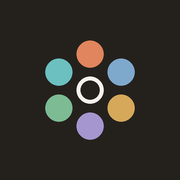
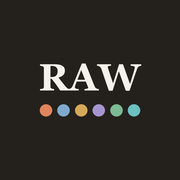
이름을 RAW(읽고, 묻고, 쓰다)로, 오늘 화면을 R·A·W 흐름으로, 새 아이콘

Changed region(s): [[0.2222, 0.2222, 0.7778, 0.7778]]

diff --git a/index.html b/index.html
@@ -3,7 +3,7 @@
 <head>
 <meta charset="utf-8">
 <meta name="viewport" content="width=device-width, initial-scale=1, viewport-fit=cover">
-<title>여섯 시선</title>
+<title>RAW · 읽고, 묻고, 쓰다</title>
 <link rel="preconnect" href="https://fonts.googleapis.com">
 <link rel="preconnect" href="https://fonts.gstatic.com" crossorigin>
 <link rel="stylesheet" href="https://fonts.googleapis.com/css2?family=Gothic+A1:wght@400;600;800&family=Noto+Serif+KR:wght@400;600;700&display=swap">
@@ -43,8 +43,22 @@ button{font:inherit;color:inherit;cursor:pointer;border:none;background:none;pad
 input,select,textarea{font:inherit;color:var(--ink)}
 .app{max-width:560px;margin:0 auto;padding:16px 16px calc(96px + env(safe-area-inset-bottom,0px))}
 .top{display:flex;align-items:baseline;justify-content:space-between;margin:6px 0 18px}
-.brand{font-family:var(--serif);font-weight:700;font-size:20px;letter-spacing:-.01em}
-.brand small{font-family:var(--sans);font-weight:400;font-size:12px;color:var(--muted);margin-left:6px}
+.brand{display:flex;align-items:baseline;gap:10px}
+.brand .logo{font-family:var(--serif);font-weight:700;font-size:24px;letter-spacing:.14em;line-height:1}
+.brand small{font-family:var(--serif);font-weight:400;font-size:13px;color:var(--muted)}
+.flow{display:flex;align-items:center;gap:6px;margin:16px 0 0}
+.flow .arrow{font-style:normal;color:var(--faint);font-size:12px}
+.flow .step{flex:1;display:flex;align-items:center;gap:8px;border:1px solid var(--line);border-radius:12px;padding:8px 10px;background:var(--surface);text-align:left}
+.flow .step b{width:24px;height:24px;border-radius:50%;display:inline-flex;align-items:center;justify-content:center;font-family:var(--serif);font-size:13px;border:1.5px solid var(--faint);color:var(--muted);flex-shrink:0}
+.flow .step span{font-size:13px;color:var(--muted);font-weight:600}
+.flow .step.done{border-color:var(--ink)}
+.flow .step.done b{background:var(--ink);border-color:var(--ink);color:var(--bg)}
+.flow .step.done span{color:var(--ink)}
+.stage{display:flex;align-items:baseline;gap:8px}
+.stage b{font-family:var(--serif);font-weight:700;letter-spacing:.16em;font-size:12.5px;color:var(--ink)}
+.stage span{font-weight:600}
+.askcard{margin-top:8px}
+.askcard .chips:last-child{margin-bottom:0}
 .sec-h{display:flex;justify-content:space-between;align-items:center;margin:26px 0 10px}
 .sec-h h2,.h2{font-size:13px;font-weight:600;color:var(--muted);margin:0;letter-spacing:.02em}
 .linkbtn{font-size:12.5px;color:var(--muted);text-decoration:underline;text-underline-offset:2px}
@@ -95,8 +109,8 @@ input,select,textarea{font:inherit;color:var(--ink)}
 .src{font-size:12px;color:var(--faint)}
 .src b{font-weight:600;color:var(--muted)}
 
-.mine{margin-top:26px;background:var(--surface);border:1.5px dashed var(--line);border-radius:var(--r);padding:16px}
-.mine .q{font-family:var(--serif);font-size:17px;margin:4px 0 14px}
+.mine{background:var(--surface);border:1.5px dashed var(--line);border-radius:var(--r);padding:16px}
+.mine .q{font-family:var(--serif);font-size:17px;margin:0 0 12px}
 .label{font-size:12px;color:var(--muted);margin:0 0 6px}
 .chips{display:flex;flex-wrap:wrap;gap:6px;margin-bottom:12px}
 .chip{border:1px solid var(--line);border-radius:999px;padding:5px 11px;font-size:13px;display:inline-flex;align-items:center;gap:6px;background:var(--bg)}
@@ -219,13 +233,13 @@ dialog::backdrop{background:rgba(0,0,0,.45)}
 .toast{position:fixed;left:50%;bottom:calc(76px + env(safe-area-inset-bottom,0px));transform:translateX(-50%);background:var(--ink);color:var(--bg);font-size:13.5px;padding:9px 16px;border-radius:999px;z-index:20;opacity:0;transition:opacity .2s ease;pointer-events:none;max-width:90vw}
 .toast.show{opacity:1}
 </style>
-<meta name="description" content="매일 고민 하나를 고전 사상가의 여섯 시선으로 읽고, 나의 생각을 한 문단 써 보세요.">
+<meta name="description" content="RAW · 읽고, 묻고, 쓰다. 매일 고민 하나를 고전 사상가의 여섯 시선으로 읽고, 부딪치고, 나의 글을 써요.">
 <meta name="theme-color" content="#f5f2ec" media="(prefers-color-scheme: light)">
 <meta name="theme-color" content="#171614" media="(prefers-color-scheme: dark)">
 <meta property="og:type" content="website">
-<meta property="og:site_name" content="여섯 시선">
-<meta property="og:title" content="여섯 시선 · 하나의 고민, 여섯 개의 생각">
-<meta property="og:description" content="매일 고민 하나를 여섯 시선으로 읽고, 일곱 번째 칸에 나의 생각을 써요.">
+<meta property="og:site_name" content="RAW">
+<meta property="og:title" content="RAW · 읽고, 묻고, 쓰다">
+<meta property="og:description" content="고민 하나를 여섯 시선으로 읽고, 묻고, 나의 글로 써요.">
 <meta property="og:url" content="https://nhs1816.github.io/sixviews/">
 <meta property="og:image" content="https://nhs1816.github.io/sixviews/icons/icon-512.png">
 <link rel="manifest" href="manifest.webmanifest">
@@ -233,7 +247,7 @@ dialog::backdrop{background:rgba(0,0,0,.45)}
 <link rel="apple-touch-icon" href="icons/icon-180.png">
 <meta name="apple-mobile-web-app-capable" content="yes">
 <meta name="mobile-web-app-capable" content="yes">
-<meta name="apple-mobile-web-app-title" content="여섯 시선">
+<meta name="apple-mobile-web-app-title" content="RAW">
 <meta name="apple-mobile-web-app-status-bar-style" content="default">
 <style>
 html{-webkit-text-size-adjust:100%}
@@ -247,7 +261,7 @@ html{-webkit-text-size-adjust:100%}
 <body>
 <div class="app">
   <header class="top">
-    <div class="brand">여섯 시선<small>하나의 고민, 여섯 개의 생각</small></div>
+    <div class="brand"><span class="logo">RAW</span><small>읽고, 묻고, 쓰다</small></div>
   </header>
 <div class="install" id="install" hidden><p id="installText">홈 화면에 설치하면 앱처럼 바로 열 수 있어요.</p>
 <button id="installBtn">설치하기</button><button id="installClose" class="plain">닫기</button></div>
@@ -268,21 +282,31 @@ html{-webkit-text-size-adjust:100%}
         <p class="worry" id="worry"></p>
       </div>
 
+      <div class="flow" id="flow">
+        <button class="step" data-go="s-read"><b>R</b><span>읽고</span></button>
+        <i class="arrow" aria-hidden="true">→</i>
+        <button class="step" data-go="s-ask"><b>A</b><span>묻고</span></button>
+        <i class="arrow" aria-hidden="true">→</i>
+        <button class="step" data-go="s-write"><b>W</b><span>쓰다</span></button>
+      </div>
+
       <div class="revisit" id="revisit" hidden></div>
 
-      <div class="sec-h"><h2>오늘의 맞대결</h2></div>
-      <div class="duel" id="duel"></div>
-
-      <div class="sec-h"><h2>여섯 시선</h2><button class="linkbtn" id="toggleAll">모두 펼치기</button></div>
+      <div class="sec-h" id="s-read"><h2 class="stage"><b>READ</b><span>읽고 · 여섯 시선</span></h2><button class="linkbtn" id="toggleAll">모두 펼치기</button></div>
       <div class="views" id="views"></div>
 
-      <div class="mine">
-        <h2 class="h2">⑦ 나의 시선</h2>
-        <p class="q" id="prompt"></p>
+      <div class="sec-h" id="s-ask"><h2 class="stage"><b>ASK</b><span>묻고 · 어디서 갈라지나</span></h2></div>
+      <div class="duel" id="duel"></div>
+      <div class="card askcard">
         <p class="label">가장 와닿은 시선</p>
         <div class="chips" id="qAgree"></div>
         <p class="label">반박하고 싶은 시선</p>
         <div class="chips against" id="qAgainst"></div>
+      </div>
+
+      <div class="sec-h" id="s-write"><h2 class="stage"><b>WRITE</b><span>쓰다 · 나의 시선</span></h2></div>
+      <div class="mine">
+        <p class="q" id="prompt"></p>
         <textarea id="qText" placeholder="한 문단이면 충분해요. 여섯 시선과 달라도 좋아요." maxlength="2000"></textarea>
         <div class="row">
           <span class="count spacer" id="qCount">0자</span>
@@ -415,7 +439,7 @@ html{-webkit-text-size-adjust:100%}
   <div class="row">
     <button class="btn ghost" data-close>닫기</button>
     <button class="btn ghost" id="shareBtn" hidden>공유</button>
-    <a class="btn" id="dlBtn" download="여섯시선.png" style="text-decoration:none">이미지 저장</a>
+    <a class="btn" id="dlBtn" download="RAW.png" style="text-decoration:none">이미지 저장</a>
   </div>
 </div></dialog>
 
@@ -429,9 +453,9 @@ html{-webkit-text-size-adjust:100%}
   <div class="row"><button class="btn ghost" data-close>닫기</button><button class="btn" id="fuSave">덧붙이기</button></div>
 </div></dialog>
 
-<script src="content.js?v=202611261458"></script>
-<script src="logic.js?v=202611261458"></script>
-<script src="ui.js?v=202611261458"></script>
+<script src="content.js?v=202611261513"></script>
+<script src="logic.js?v=202611261513"></script>
+<script src="ui.js?v=202611261513"></script>
 <script>
 /* 앱 설치 안내 + 오프라인 지원 */
 (function(){

diff --git a/ui.js b/ui.js
@@ -1,4 +1,4 @@
-/* 여섯 시선 화면 — 오늘 · 쓰기 · 서랍 · 나 */
+/* RAW(읽고, 묻고, 쓰다) 화면 — 오늘 · 쓰기 · 서랍 · 나 */
 (function () {
   const L = SixLogic;
   const $ = id => document.getElementById(id);
@@ -21,7 +21,7 @@
   const N = TOPICS.length;
 
   const S = {
-    offset: 0, allOpen: false,
+    offset: 0, allOpen: false, read: false,
     quick: { lens: null, against: null },
     ed: null, toolLens: null, toolIdx: 0,
     drawer: { q: "", filter: "all" },
@@ -84,7 +84,7 @@
       body.appendChild(el("p", null, v.body));
       const src = el("div", "src"); src.append(el("b", null, "사상 해석"), document.createTextNode(` · 근거 ${v.source}`));
       body.appendChild(src);
-      head.onclick = () => { const o = card.classList.toggle("open"); head.setAttribute("aria-expanded", String(o)); };
+      head.onclick = () => { const o = card.classList.toggle("open"); head.setAttribute("aria-expanded", String(o)); if (o) { S.read = true; updateFlow(); } };
       card.append(head, body); box.appendChild(card);
     });
     $("toggleAll").textContent = S.allOpen ? "모두 접기" : "모두 펼치기";
@@ -126,7 +126,25 @@
   function renderQuickChips() {
     renderChips($("qAgree"), S.quick.lens, id => { S.quick.lens = id; if (id && S.quick.against === id) S.quick.against = null; renderQuickChips(); });
     renderChips($("qAgainst"), S.quick.against, id => { S.quick.against = id; if (id && S.quick.lens === id) S.quick.lens = null; renderQuickChips(); });
+    updateFlow();
   }
+
+  /* 오늘의 흐름 R → A → W: 시선을 펼쳐 읽으면 R, 시선을 고르면 A, 저장하면 W */
+  function updateFlow() {
+    const tp = topic(), saved = L.findNote(notes, today, tp.id);
+    const done = {
+      "s-read": S.read || S.allOpen || !!saved,
+      "s-ask": !!(S.quick.lens || S.quick.against),
+      "s-write": !!saved,
+    };
+    document.querySelectorAll("#flow .step").forEach(b => {
+      b.classList.toggle("done", done[b.dataset.go]);
+      b.setAttribute("aria-label", `${b.textContent.trim()} ${done[b.dataset.go] ? "완료" : "아직"}`);
+    });
+  }
+  document.querySelectorAll("#flow .step").forEach(b => b.onclick = () => {
+    const t = $(b.dataset.go); if (t) t.scrollIntoView({ behavior: "smooth", block: "start" });
+  });
   function updateQuick() {
     $("qCount").textContent = `${L.charCount($("qText").value)}자`;
     const ok = $("qText").value.trim().length > 0;
@@ -134,15 +152,15 @@
   }
 
   $("qText").addEventListener("input", updateQuick);
-  $("prevT").onclick = () => { S.offset--; renderToday(); };
-  $("nextT").onclick = () => { S.offset++; renderToday(); };
+  $("prevT").onclick = () => { S.offset--; S.read = false; renderToday(); };
+  $("nextT").onclick = () => { S.offset++; S.read = false; renderToday(); };
   $("toggleAll").onclick = () => { S.allOpen = !S.allOpen; renderToday(); };
   $("qSave").onclick = () => {
     const tp = topic(), prev = L.findNote(notes, today, tp.id);
     const next = L.saveNote(store, notes, { date: today, topicId: tp.id, lens: S.quick.lens, against: S.quick.against,
       text: $("qText").value, mode: prev ? prev.mode : "short", title: prev ? prev.title : "" });
     if (!next) return;
-    notes = next; toast("저장했어요. 서랍에서 다시 볼 수 있어요.");
+    notes = next; updateFlow(); toast("저장했어요. 서랍에서 다시 볼 수 있어요.");
   };
   $("qCard").onclick = () => {
     const tp = topic();
@@ -311,18 +329,18 @@
   }
   $("dExport").onclick = () => {
     if (!notes.length) return toast("내보낼 글이 없어요.");
-    download(`여섯시선_내글_${today}.txt`, L.exportText(notes, topicsById, lensById), "text/plain;charset=utf-8");
+    download(`RAW_내글_${today}.txt`, L.exportText(notes, topicsById, lensById), "text/plain;charset=utf-8");
   };
   $("dBackup").onclick = () => {
     if (!notes.length) return toast("백업할 글이 없어요.");
-    download(`여섯시선_백업_${today}.json`, JSON.stringify({ app: "sixviews", version: 2, exportedAt: new Date().toISOString(), notes }, null, 1), "application/json");
+    download(`RAW_백업_${today}.json`, JSON.stringify({ app: "sixviews", version: 2, exportedAt: new Date().toISOString(), notes }, null, 1), "application/json");
   };
   $("dRestore").onclick = () => $("dFile").click();
   $("dFile").onchange = async () => {
     const f = $("dFile").files[0]; $("dFile").value = "";
     if (!f) return;
     const list = L.parseBackup(await f.text());
-    if (!list) return toast("여섯 시선 백업 파일이 아니에요.");
+    if (!list) return toast("RAW 백업 파일이 아니에요.");
     notes = L.mergeNotes(notes, list);
     try { store && store.setItem(L.NOTES_KEY, JSON.stringify(notes)); } catch (e) {}
     toast(`백업에서 ${list.length}편을 불러왔어요.`); renderDrawer();
@@ -480,7 +498,7 @@
     g.fillStyle = lc; g.fillRect(0, 0, W, 14);
     g.textBaseline = "top";
     let y = P + 20;
-    g.fillStyle = "#9c958a"; g.font = `600 30px ${SANS}`; g.fillText(`여섯 시선 · ${prettyDate(c.date)}`, P, y); y += 70;
+    g.fillStyle = "#9c958a"; g.font = `600 30px ${SANS}`; g.fillText(`RAW · ${prettyDate(c.date)}`, P, y); y += 70;
     g.fillStyle = "#24211d"; g.font = `700 92px ${SERIF}`; g.fillText(c.keyword || "나의 시선", P, y); y += 126;
     if (c.worry) { g.fillStyle = "#6e675d"; g.font = `400 36px ${SERIF}`; L.wrapLines(c.worry, W - P * 2, measure, 2).forEach(s => { g.fillText(s, P, y); y += 54; }); y += 26; }
     if (c.lensId && c.lensLine) {
@@ -503,7 +521,7 @@
     const maxLines = Math.max(2, Math.floor(room / (size * 1.6)));
     L.wrapLines(String(c.text).trim(), W - P * 2, measure, maxLines).forEach(s => { g.fillText(s, P, y); y += size * 1.6; });
     g.fillStyle = "#9c958a"; g.font = `600 26px ${SANS}`; g.textAlign = "right";
-    g.fillText("하나의 고민, 여섯 개의 생각", W - P, H - P + 10);
+    g.fillText("읽고, 묻고, 쓰다", W - P, H - P + 10);
     return new Promise(res => cv.toBlob(res, "image/png"));
   }
 
@@ -519,7 +537,7 @@
     if (cardUrl) URL.revokeObjectURL(cardUrl);
     cardUrl = URL.createObjectURL(cardBlob);
     $("cardImg").src = cardUrl; $("dlBtn").href = cardUrl;
-    $("dlBtn").download = `여섯시선_${c.date}_${(c.keyword || "글").replace(/[\\/:*?"<>|]/g, "")}.png`;
+    $("dlBtn").download = `RAW_${c.date}_${(c.keyword || "글").replace(/[\\/:*?"<>|]/g, "")}.png`;
     let canShare = false;
     try { canShare = !!(navigator.canShare && navigator.canShare({ files: [new File([cardBlob], "card.png", { type: "image/png" })] })); } catch (e) {}
     $("shareBtn").hidden = !canShare;

diff --git a/sw.js b/sw.js
@@ -1,5 +1,5 @@
-// 여섯 시선 서비스 워커: 새 버전을 바로 받도록 네트워크 우선, 오프라인이면 저장해 둔 사본으로 열어요.
-const CACHE = "sixviews-202611261458";
+// RAW 서비스 워커: 새 버전을 바로 받도록 네트워크 우선, 오프라인이면 저장해 둔 사본으로 열어요.
+const CACHE = "sixviews-202611261513";
 const SHELL = ["./", "./index.html", "./manifest.webmanifest", "./content.js", "./logic.js", "./ui.js",
   "./icons/icon-180.png", "./icons/icon-192.png", "./icons/icon-512.png"];
 
